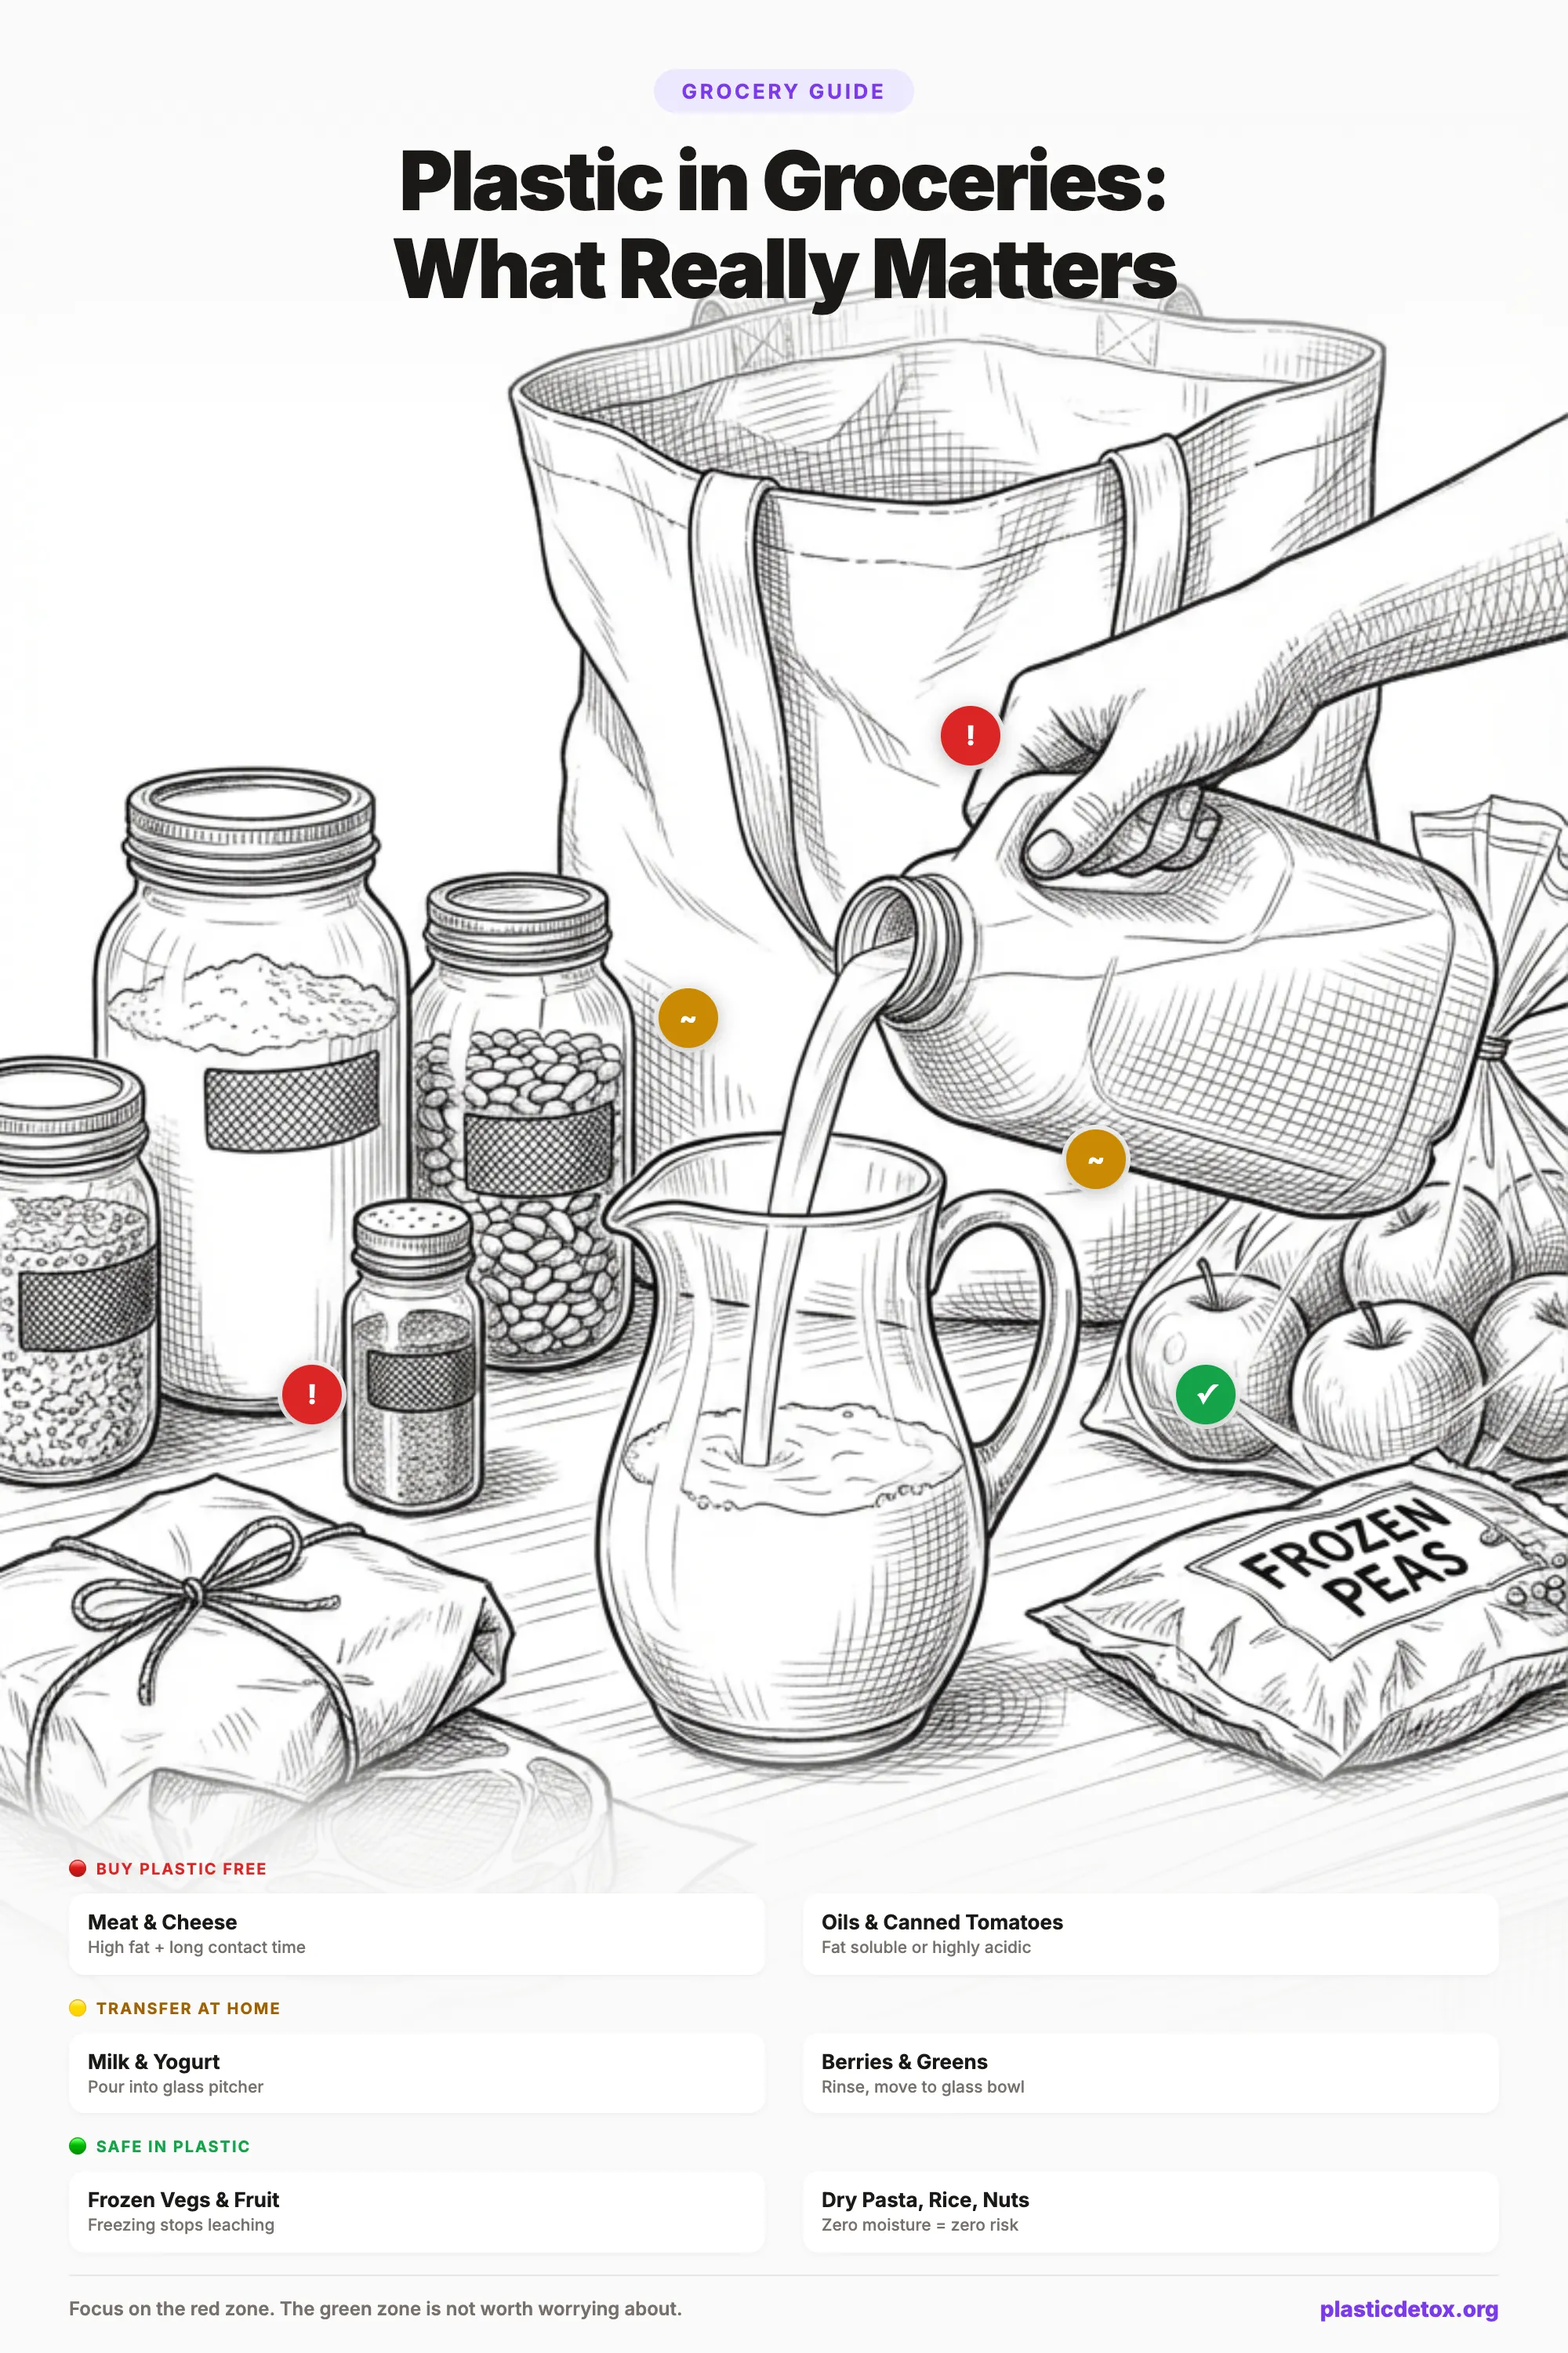
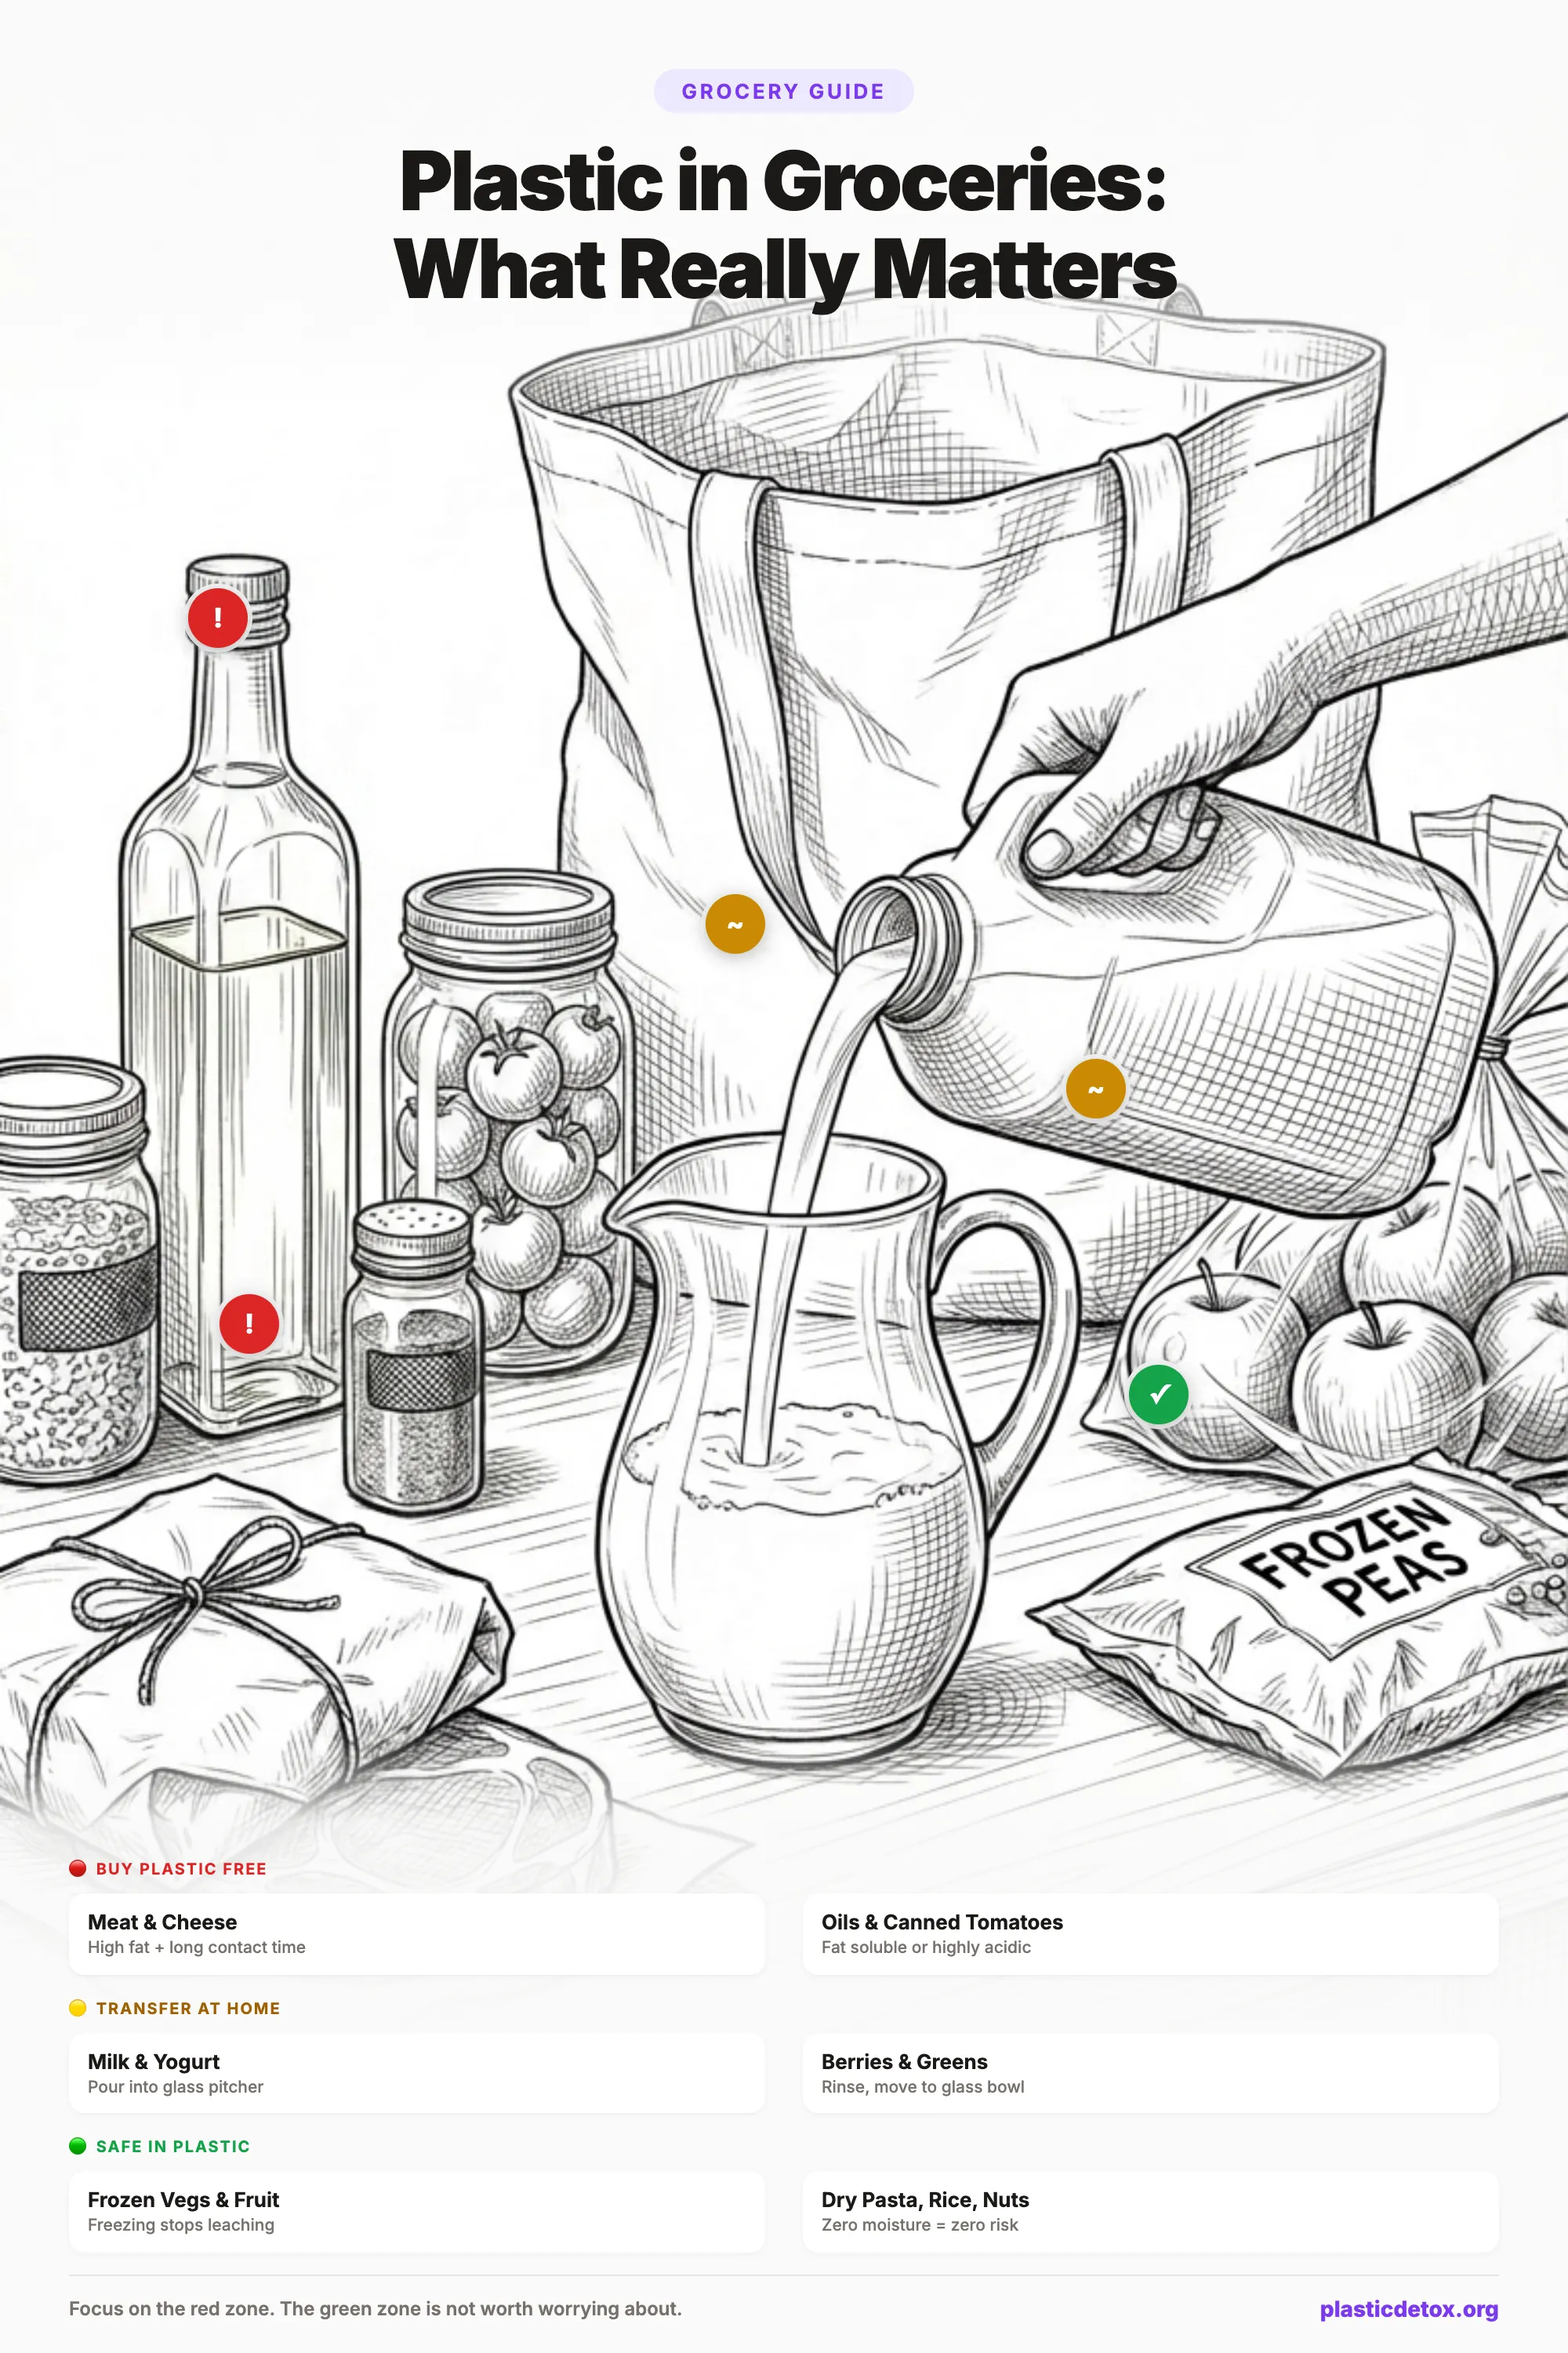
Switch to groceries2 illustration with olive oil and tomatoes visible

diff --git a/images/groceries-swap-pinterest.html b/images/groceries-swap-pinterest.html
@@ -91,11 +91,11 @@
     .badge-yellow { background: #ca8a04; }
     .badge-green { background: #16a34a; }
 
-    .badge-1 { left: 18%; top: 58%; }
-    .badge-2 { left: 60%; top: 30%; }
-    .badge-3 { left: 42%; top: 42%; }
-    .badge-4 { left: 68%; top: 48%; }
-    .badge-5 { left: 75%; top: 58%; }
+    .badge-1 { left: 14%; top: 55%; }
+    .badge-2 { left: 12%; top: 25%; }
+    .badge-3 { left: 45%; top: 38%; }
+    .badge-4 { left: 68%; top: 45%; }
+    .badge-5 { left: 72%; top: 58%; }
 
     /* ─── BOTTOM: swap legend card ─── */
     .bottom-card {
@@ -186,7 +186,7 @@
 </head>
 <body>
   <div class="pin">
-    <img src="groceries.png" alt="Pencil sketch of grocery items being unpacked on a kitchen counter">
+    <img src="groceries2.png" alt="Pencil sketch of grocery items being unpacked on a kitchen counter with olive oil bottle, tomatoes in glass jar, butcher paper wrapped meat, milk being poured into glass pitcher, apples, and frozen peas">
 
     <div class="top-overlay">
       <div class="headline-tag">Grocery Guide</div>
